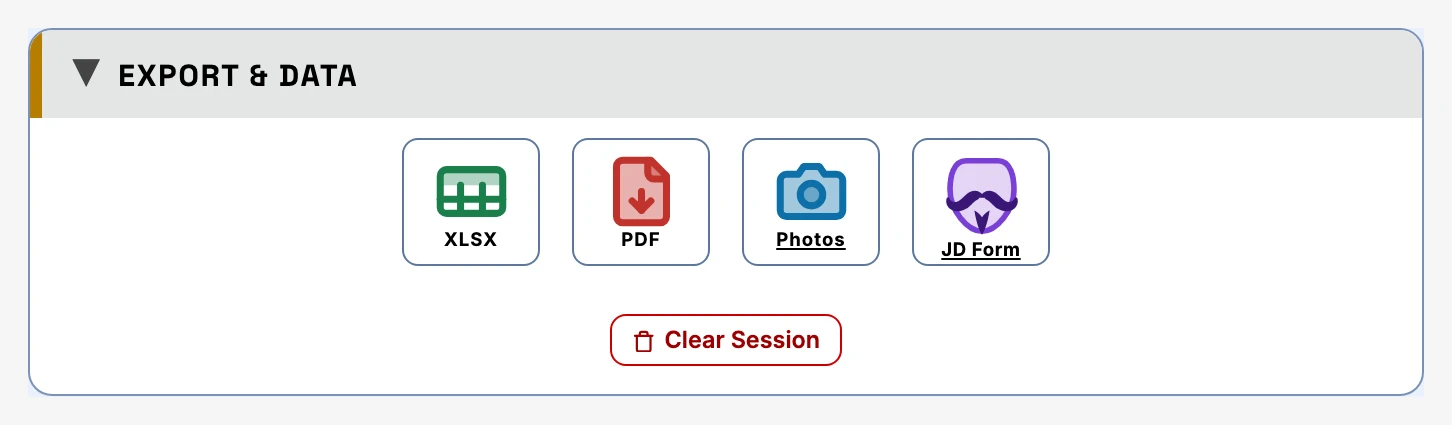
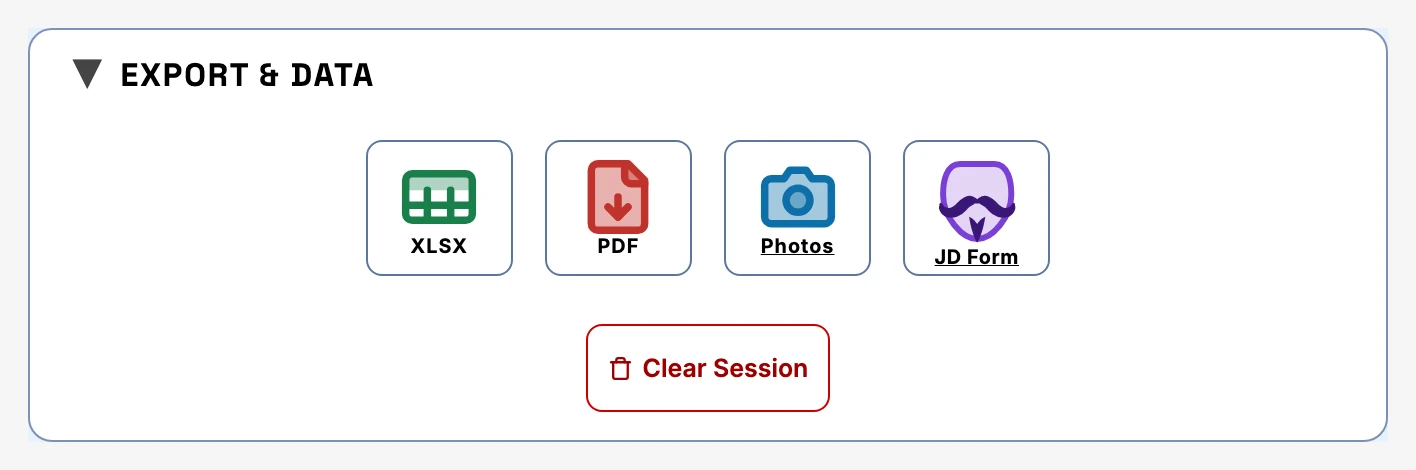
v22.32 JD Form mask enlargement limited to phones, regenerated Export FAQ screenshots

diff --git a/index.html b/index.html
@@ -103,7 +103,7 @@
     </div>
     </div>
     <div class="settings-panel-foot">
-    <div class="settings-meta"><span class="settings-version" id="versionLabel"></span><details class="settings-about"><summary>What's new</summary><div class="about-ver"><b>v22.31</b><ul><li>Export: the JD Form mask icon is bigger.</li></ul></div><div class="about-ver"><b>v22.30</b><ul><li>Export: phone button icons and labels are bigger.</li></ul></div><div class="about-ver"><b>v22.29</b><ul><li>Export: phone buttons are a bit smaller, with bigger, bolder labels.</li></ul></div><div class="about-ver"><b>v22.28</b><ul><li>Craft Prize: Exclude Top and Drumroll boxes back to their earlier size, with bigger digits.</li><li>Export: phone buttons stay square in the 2x2 grid.</li></ul></div><div class="about-ver"><b>v22.27</b><ul><li>Export: on phones the four buttons sit in a 2x2 grid, XLSX and PDF on top, Photos and JD Form below.</li><li>Craft Prize: even bigger digits in the Exclude Top and Drumroll boxes.</li></ul></div><div class="about-ver"><b>v22.24</b><ul><li>PDF export: the craft prize winner is highlighted in gold and labelled in the Standings.</li><li>More space between the XLSX, PDF and JD Form buttons.</li></ul></div><div class="about-ver"><b>v22.23</b><ul><li>Craft Prize: bigger Exclude Top and Drumroll text, and excluded teams now listed with their rank.</li><li>Bigger, easier-to-tap Reload button in Settings.</li></ul></div><div class="about-ver"><b>v22.22</b><ul><li>Questions: on iPad landscape the sort and reset buttons are taller and easier to tap.</li></ul></div><div class="about-ver"><b>v22.21</b><ul><li>Behind the scenes: tidier tests and refreshed docs. No changes to the app itself.</li></ul></div><div class="about-ver"><b>v22.20</b><ul><li>Rivals: the selected place button now shows a checkmark badge for #1-#3 and an X badge for Other.</li></ul></div><div class="about-ver"><b>v22.19</b><ul><li>Rivals: a selected place button now stays solid instead of changing look under your finger.</li></ul></div><div class="about-ver"><b>v22.18</b><ul><li>Rivals: the Q5 wager header now reads "Wager on #1".</li></ul></div><div class="about-ver"><b>v22.17</b><ul><li>Questions: the header keeps its height when collapsed, so it no longer jumps.</li></ul></div><div class="about-ver"><b>v22.16</b><ul><li>Questions: Reset shows as a quiet red outline when there is nothing to reset.</li></ul></div><div class="about-ver"><b>v22.15</b><ul><li>Teams: the alternating row shading now runs the full width of the Teams box.</li></ul></div><details class="about-older"><summary>Earlier versions</summary><div class="about-ver"><b>v22.14</b><ul><li>Rivals: the Q5 wager header now reads "Wager #1" instead of "Wager on the #1 answer".</li></ul></div><div class="about-ver"><b>v22.13</b><ul><li>Rivals: the selected place button is now amber instead of red.</li></ul></div><div class="about-ver"><b>v22.12</b><ul><li>Rivals: removed the redundant place-points label from each round header.</li></ul></div><div class="about-ver"><b>v22.11</b><ul><li>Final Results: the checkered flag is now solid white and tilted, with a white outline in dark mode.</li></ul></div><div class="about-ver"><b>v22.10</b><ul><li>Settings: What's new and Earlier versions now have a twisty arrow.</li></ul></div><div class="about-ver"><b>v22.9</b><ul><li>Rivals: place buttons are now stacked tiles that fit iPhone widths.</li></ul></div><div class="about-ver"><b>v22.8</b><ul><li>JD Form mask: slightly thicker mustache.</li></ul></div><div class="about-ver"><b>v22.7</b><ul><li>Light theme: clearer Pause, Reset and close (X) buttons.</li></ul></div><div class="about-ver"><b>v22.6</b><ul><li>JD Form mask: pale purple plate with deep purple mustache and goatee in Light theme.</li><li>Rivals: place buttons are now one-line chips with a points badge.</li></ul></div><div class="about-ver"><b>v22.5</b><ul><li>What's new: older versions now tuck into an "Earlier versions" twisty.</li></ul></div><div class="about-ver"><b>v22.4</b><ul><li>JD Form mask: darker plate in Light theme so the white mustache and goatee stand out.</li></ul></div><div class="about-ver"><b>v22.3</b><ul><li>JD Form mask: mustache and goatee are now white.</li></ul></div><div class="about-ver"><b>v22.2</b><ul><li>Rivals: header title stays Score Keeper, place buttons are wider for "Other", and the crossed-swords icon is fixed.</li></ul></div><div class="about-ver"><b>v22.1</b><ul><li>Fixed: tapping just above a wager button no longer opens the Team Report.</li></ul></div><div class="about-ver"><b>v22.0</b><ul><li>New Game Mode: Revolution Rivals (score each question by survey place, wager on the #1 answer).</li></ul></div></details></details><span class="settings-disclaimer"><svg class="icon-ui" viewBox="0 0 24 24" aria-hidden="true" focusable="false"><path d="m21.73 18-8-14a2 2 0 0 0-3.48 0l-8 14A2 2 0 0 0 4 21h16a2 2 0 0 0 1.73-3"/><path d="M12 9v4"/><path d="M12 17h.01"/></svg> Built with Anthropic's Claude AI — double-check scores &amp; banter yourself.</span></div>
+    <div class="settings-meta"><span class="settings-version" id="versionLabel"></span><details class="settings-about"><summary>What's new</summary><div class="about-ver"><b>v22.32</b><ul><li>Export: the bigger JD Form mask now applies on phones only.</li></ul></div><div class="about-ver"><b>v22.31</b><ul><li>Export: the JD Form mask icon is bigger.</li></ul></div><div class="about-ver"><b>v22.30</b><ul><li>Export: phone button icons and labels are bigger.</li></ul></div><div class="about-ver"><b>v22.29</b><ul><li>Export: phone buttons are a bit smaller, with bigger, bolder labels.</li></ul></div><div class="about-ver"><b>v22.28</b><ul><li>Craft Prize: Exclude Top and Drumroll boxes back to their earlier size, with bigger digits.</li><li>Export: phone buttons stay square in the 2x2 grid.</li></ul></div><div class="about-ver"><b>v22.27</b><ul><li>Export: on phones the four buttons sit in a 2x2 grid, XLSX and PDF on top, Photos and JD Form below.</li><li>Craft Prize: even bigger digits in the Exclude Top and Drumroll boxes.</li></ul></div><div class="about-ver"><b>v22.24</b><ul><li>PDF export: the craft prize winner is highlighted in gold and labelled in the Standings.</li><li>More space between the XLSX, PDF and JD Form buttons.</li></ul></div><div class="about-ver"><b>v22.23</b><ul><li>Craft Prize: bigger Exclude Top and Drumroll text, and excluded teams now listed with their rank.</li><li>Bigger, easier-to-tap Reload button in Settings.</li></ul></div><div class="about-ver"><b>v22.22</b><ul><li>Questions: on iPad landscape the sort and reset buttons are taller and easier to tap.</li></ul></div><div class="about-ver"><b>v22.21</b><ul><li>Behind the scenes: tidier tests and refreshed docs. No changes to the app itself.</li></ul></div><div class="about-ver"><b>v22.20</b><ul><li>Rivals: the selected place button now shows a checkmark badge for #1-#3 and an X badge for Other.</li></ul></div><div class="about-ver"><b>v22.19</b><ul><li>Rivals: a selected place button now stays solid instead of changing look under your finger.</li></ul></div><div class="about-ver"><b>v22.18</b><ul><li>Rivals: the Q5 wager header now reads "Wager on #1".</li></ul></div><div class="about-ver"><b>v22.17</b><ul><li>Questions: the header keeps its height when collapsed, so it no longer jumps.</li></ul></div><div class="about-ver"><b>v22.16</b><ul><li>Questions: Reset shows as a quiet red outline when there is nothing to reset.</li></ul></div><div class="about-ver"><b>v22.15</b><ul><li>Teams: the alternating row shading now runs the full width of the Teams box.</li></ul></div><details class="about-older"><summary>Earlier versions</summary><div class="about-ver"><b>v22.14</b><ul><li>Rivals: the Q5 wager header now reads "Wager #1" instead of "Wager on the #1 answer".</li></ul></div><div class="about-ver"><b>v22.13</b><ul><li>Rivals: the selected place button is now amber instead of red.</li></ul></div><div class="about-ver"><b>v22.12</b><ul><li>Rivals: removed the redundant place-points label from each round header.</li></ul></div><div class="about-ver"><b>v22.11</b><ul><li>Final Results: the checkered flag is now solid white and tilted, with a white outline in dark mode.</li></ul></div><div class="about-ver"><b>v22.10</b><ul><li>Settings: What's new and Earlier versions now have a twisty arrow.</li></ul></div><div class="about-ver"><b>v22.9</b><ul><li>Rivals: place buttons are now stacked tiles that fit iPhone widths.</li></ul></div><div class="about-ver"><b>v22.8</b><ul><li>JD Form mask: slightly thicker mustache.</li></ul></div><div class="about-ver"><b>v22.7</b><ul><li>Light theme: clearer Pause, Reset and close (X) buttons.</li></ul></div><div class="about-ver"><b>v22.6</b><ul><li>JD Form mask: pale purple plate with deep purple mustache and goatee in Light theme.</li><li>Rivals: place buttons are now one-line chips with a points badge.</li></ul></div><div class="about-ver"><b>v22.5</b><ul><li>What's new: older versions now tuck into an "Earlier versions" twisty.</li></ul></div><div class="about-ver"><b>v22.4</b><ul><li>JD Form mask: darker plate in Light theme so the white mustache and goatee stand out.</li></ul></div><div class="about-ver"><b>v22.3</b><ul><li>JD Form mask: mustache and goatee are now white.</li></ul></div><div class="about-ver"><b>v22.2</b><ul><li>Rivals: header title stays Score Keeper, place buttons are wider for "Other", and the crossed-swords icon is fixed.</li></ul></div><div class="about-ver"><b>v22.1</b><ul><li>Fixed: tapping just above a wager button no longer opens the Team Report.</li></ul></div><div class="about-ver"><b>v22.0</b><ul><li>New Game Mode: Revolution Rivals (score each question by survey place, wager on the #1 answer).</li></ul></div></details></details><span class="settings-disclaimer"><svg class="icon-ui" viewBox="0 0 24 24" aria-hidden="true" focusable="false"><path d="m21.73 18-8-14a2 2 0 0 0-3.48 0l-8 14A2 2 0 0 0 4 21h16a2 2 0 0 0 1.73-3"/><path d="M12 9v4"/><path d="M12 17h.01"/></svg> Built with Anthropic's Claude AI — double-check scores &amp; banter yourself.</span></div>
     </div>
   </div>
 </div>

diff --git a/css/styles.css b/css/styles.css
@@ -2273,13 +2273,13 @@ input.at-limit,textarea.at-limit{border-color:var(--accent-orange);box-shadow:0 
 .export-bar .export-sq{font-size:3.2rem;gap:0;padding:2px 4px 3px;line-height:1;width:auto;height:auto;min-width:4.6rem}
 .export-bar .export-sq:not(.jd-upload-btn){font-size:2.5rem}
 .export-sq.jd-upload-btn .export-sq-label{letter-spacing:.3px}
-.export-bar .jd-upload-btn .icon-fawkes{width:1.2em;height:1.2em;margin:-.1em 0}
 /* Phones: 2x2 grid — XLSX/PDF (files) on top, Photos/JD Form (uploads) below, a hairline between the rows. */
 @media(max-width:600px){
 .export-bar{display:grid;grid-template-columns:repeat(2,clamp(5.5rem,28vw,6rem));justify-content:center;gap:12px 16px}
 .export-bar .export-sq{width:100%;min-width:0;height:auto;aspect-ratio:1/1;justify-content:center;font-size:clamp(2.6rem,11vw,3rem)}
 .export-bar .export-sq:not(.jd-upload-btn){font-size:clamp(2.6rem,11vw,3rem)}
 .export-bar .export-sq .export-sq-label{font-size:.9rem;font-weight:800}
+.export-bar .jd-upload-btn .icon-fawkes{width:1.2em;height:1.2em;margin:-.1em 0}
 .export-bar::after{content:"";grid-row:2;grid-column:1/-1;height:1px;background:var(--border)}
 }
 .export-prompt{display:none;background:var(--bg-card-alt);border:1px solid var(--accent-gold);border-radius:var(--radius);padding:10px;margin-top:8px}

diff --git a/js/app.js b/js/app.js
@@ -64,8 +64,8 @@ const FIELD_MAX = {
   teamName: 40,
   craftScript: 600,
 };
-const APP_VERSION = "v22.31"; // #Version Number — bump this manually when you release a new build
-const APP_VERSION_DATE = "Nov 18, 2026 12:37 PM"; // #Version Date — bump alongside APP_VERSION so folks can spot a stale build
+const APP_VERSION = "v22.32"; // #Version Number — bump this manually when you release a new build
+const APP_VERSION_DATE = "Nov 18, 2026 12:40 PM"; // #Version Date — bump alongside APP_VERSION so folks can spot a stale build
 // version.json (repo root) mirrors these two — see checkForUpdate() below for why, and bump it
 // in the same commit as these two or the update-available check starts lying: it'd either miss
 // a real new release (version.json still saying the old version) or nag a host running the

diff --git a/faq/index.html b/faq/index.html
@@ -1575,7 +1575,7 @@
         <div class="faq-shot">
           <img
             loading="lazy"
-            width="1452" height="425" decoding="async"
+            width="1416" height="470" decoding="async"
             src="screenshots/export-bar.webp"
             data-shot-base="export-bar"
             alt="Export section showing the square XLSX, PDF and Photos buttons and the JD Form link"

diff --git a/CHANGELOG.md b/CHANGELOG.md
@@ -14,6 +14,9 @@ Theme Night is a major change, so its first release (commit subject "v19.78") is
 v20.0 here and in the app, and the follow-ups after it are v20.1 through v20.6 (commit subjects
 v19.79 through v19.84; git history isn't rewritten).
 
+## v22.32 - 2026-11-18
+- **Export:** the bigger JD Form mask icon now applies on phones only (on desktop it overlapped the label); regenerated the Export FAQ screenshots.
+
 ## v22.31 - 2026-11-18
 - **Export:** the JD Form mask icon is 20% bigger so it matches the other export icons.
 
